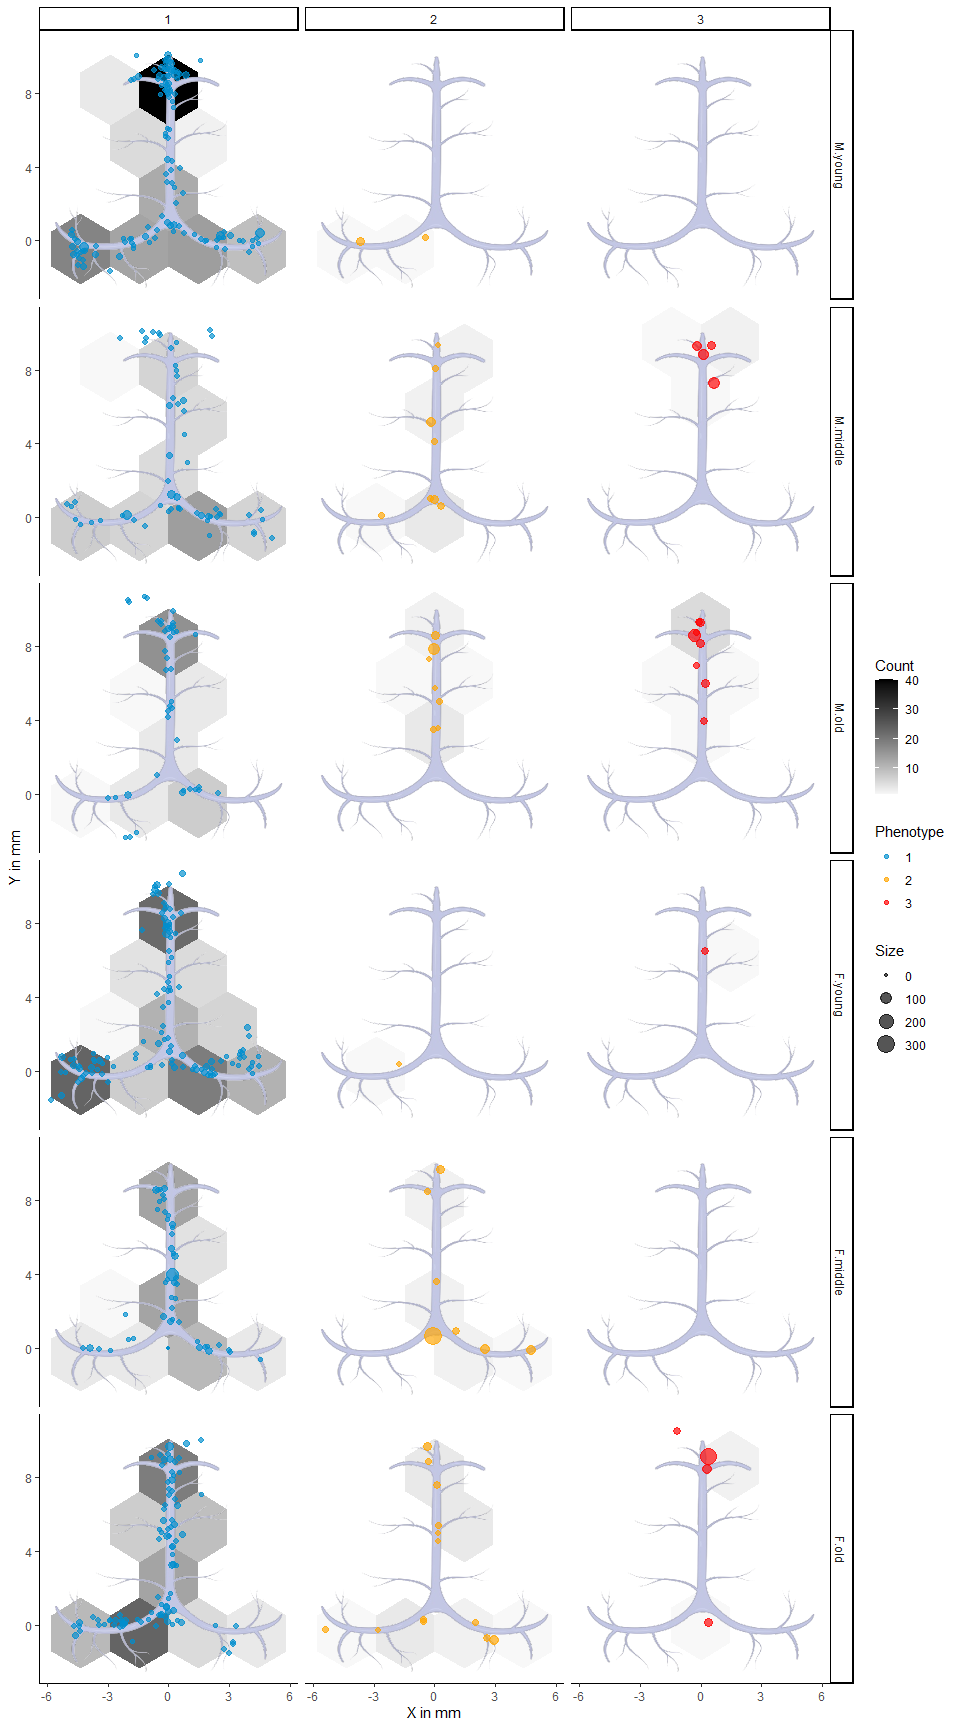
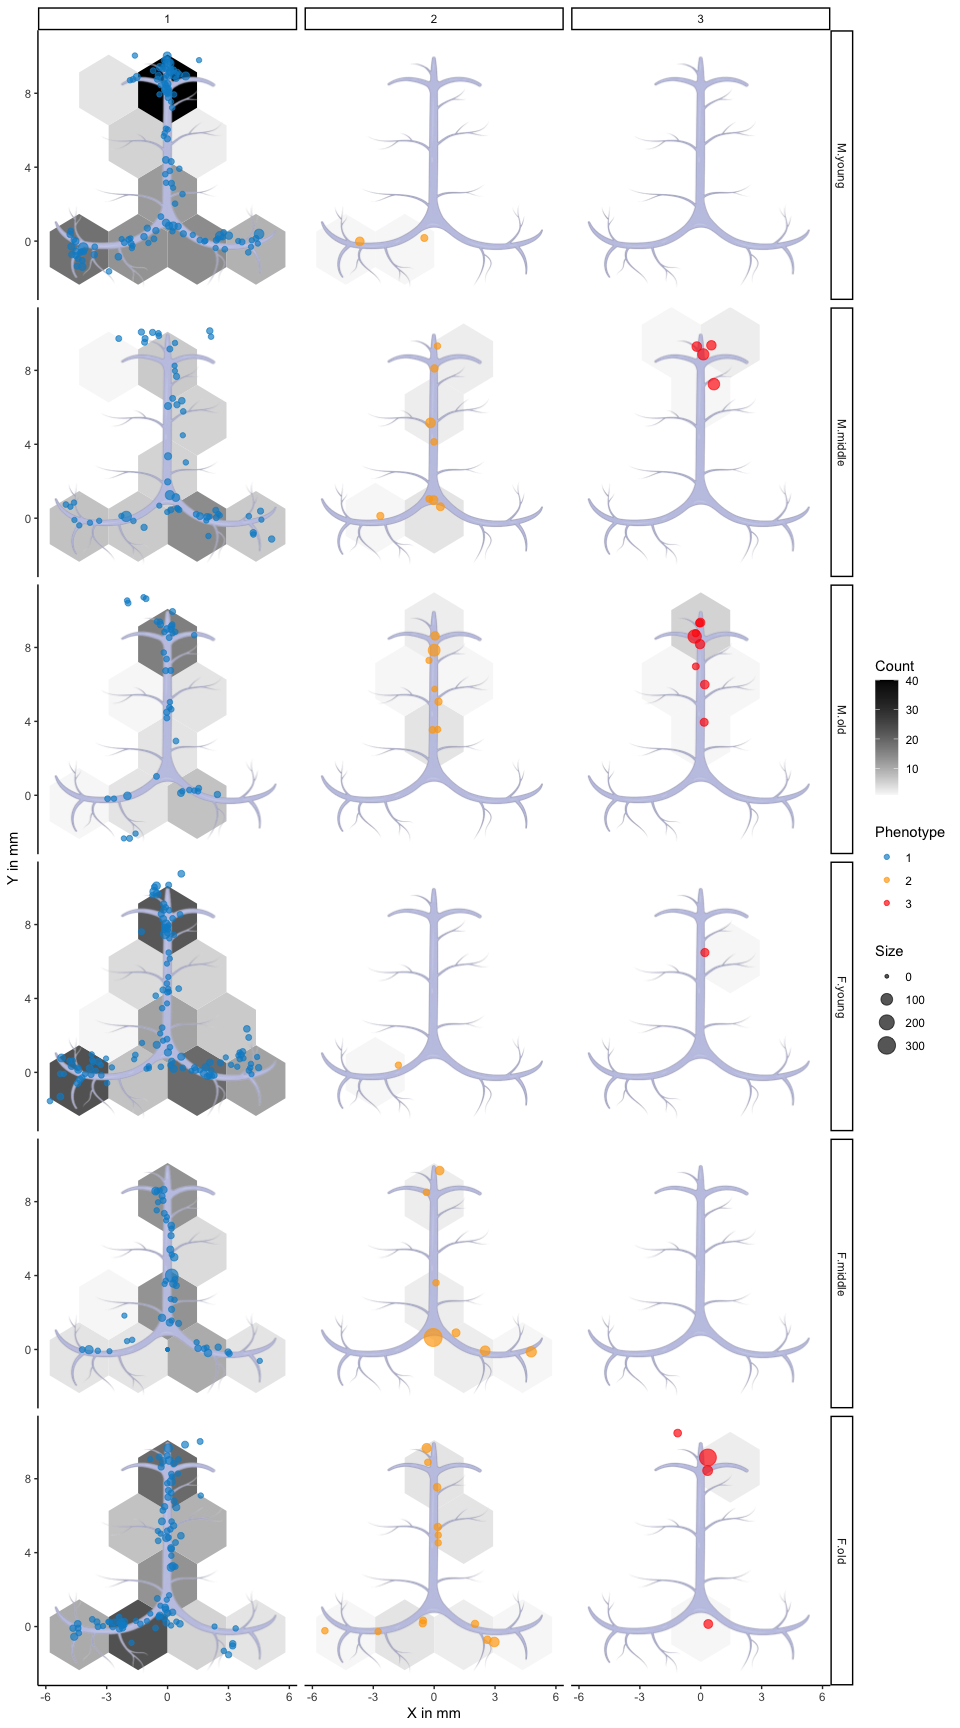
Restore app report

diff --git a/APP.md b/APP.md
@@ -123,39 +123,45 @@ sinus location, respectively.
 [Figure 1](#fig-bar) shows the distribution the TLSs distribute in terms
 of their length and size across all tissues.
 
-<embed src="results/plots/APPfig-bar-1.pdf" id="fig-bar" />
+<img src="results/plots/APPfig-bar-1.png" id="fig-bar"
+alt="Figure 1: Barplots of tertiary lyphatic structures distributed by (A) diameter and (B) distance from confluence in mm." />
 
 ## Location of structures
 
-<embed src="results/plots/APPfig-loc-1.pdf" id="fig-loc" />
+<img src="results/plots/APPfig-loc-1.png" id="fig-loc"
+alt="Figure 2: Scatter plot of TLSs around meninges. Each dot represents one structure, sized by dimension, coloured by phenotype and labeled by sample. Each panel corresponds to a mice group based on sex and age category." />
 
 ## Distribution of structures
 
-<embed src="results/plots/APPfig-dist-1.pdf" id="fig-dist" />
+<img src="results/plots/APPfig-dist-1.png" id="fig-dist"
+alt="Figure 3: 2d Binned plot of tertiary limphatic structures around meninges. Colour indicates number of structures found in each hexagonal cell. Each panel corresponds to a mice group based on sex and age category." />
 
 ## Location and Distribution of structures
 
-<embed src="results/plots/APPfig-loc-dens-1.pdf" id="fig-loc-dens" />
+<img src="results/plots/APPfig-loc-dens-1.png" id="fig-loc-dens"
+alt="Figure 4: Density plot of TLSs around meninges. Each dot represents one structure, sized by dimension, coloured by phenotype. Colour indicates the fraction of structures found in each pixel. Each panel corresponds to a mice group based on sex and age category." />
 
 ## Extra visualisation
 
 ### Distribution by phenotype
 
-<embed src="results/plots/APPfig-dist-pheno-1.pdf"
-id="fig-dist-pheno" />
+<img src="results/plots/APPfig-dist-pheno-1.png" id="fig-dist-pheno"
+alt="Figure 5: 2d Binned plot of tertiary limphatic structures around meninges by phenotype (1, 2 or 3). Colour indicates number of structures found in each hexagonal cell. Rows correspond to a mice group based on sex and age category, whereas columns represent phenotypes." />
 
 ### Density of structures
 
 [Figure 6](#fig-dens) shows the density of TLSs.
 
-<embed src="results/plots/APPfig-dens-1.pdf" id="fig-dens" />
+<img src="results/plots/APPfig-dens-1.png" id="fig-dens"
+alt="Figure 6: Density plot of tertiary lymphatic structures around meninges by phenotype (1, 2 or 3). Colour indicates the fraction of structures found in each pixel. Rows correspond to a mice group based on sex and age category, whereas columns represent phenotypes." />
 
-<embed src="results/plots/APPfig-ndens-1.pdf" id="fig-ndens" />
+<img src="results/plots/APPfig-ndens-1.png" id="fig-ndens"
+alt="Figure 7: Density plot of TLSs around meninges. Colour indicates the fraction of structures found in each pixel normalised by group maximum. Each panel corresponds to a mice group based on sex and age category." />
 
 ### Density by phenotype
 
-<embed src="results/plots/APPfig-dens-pheno-1.pdf"
-id="fig-dens-pheno" />
+<img src="results/plots/APPfig-dens-pheno-1.png" id="fig-dens-pheno"
+alt="Figure 8: Density plot of tertiary lymphatic structures around meninges by phenotype (1, 2 or 3). Colour indicates the fraction of structures found in each pixel. Rows correspond to a mice group based on sex and age category, whereas columns represent phenotypes." />
 
-<embed src="results/plots/APPfig-ndens-pheno-1.pdf"
-id="fig-ndens-pheno" />
+<img src="results/plots/APPfig-ndens-pheno-1.png" id="fig-ndens-pheno"
+alt="Figure 9: Density plot of tertiary lymphatic structures around meninges by phenotype (1, 2 or 3). Colour indicates the fraction of structures found in each pixel normalised by group maximum. Rows correspond to a mice group based on sex and age category, whereas columns represent phenotypes." />
